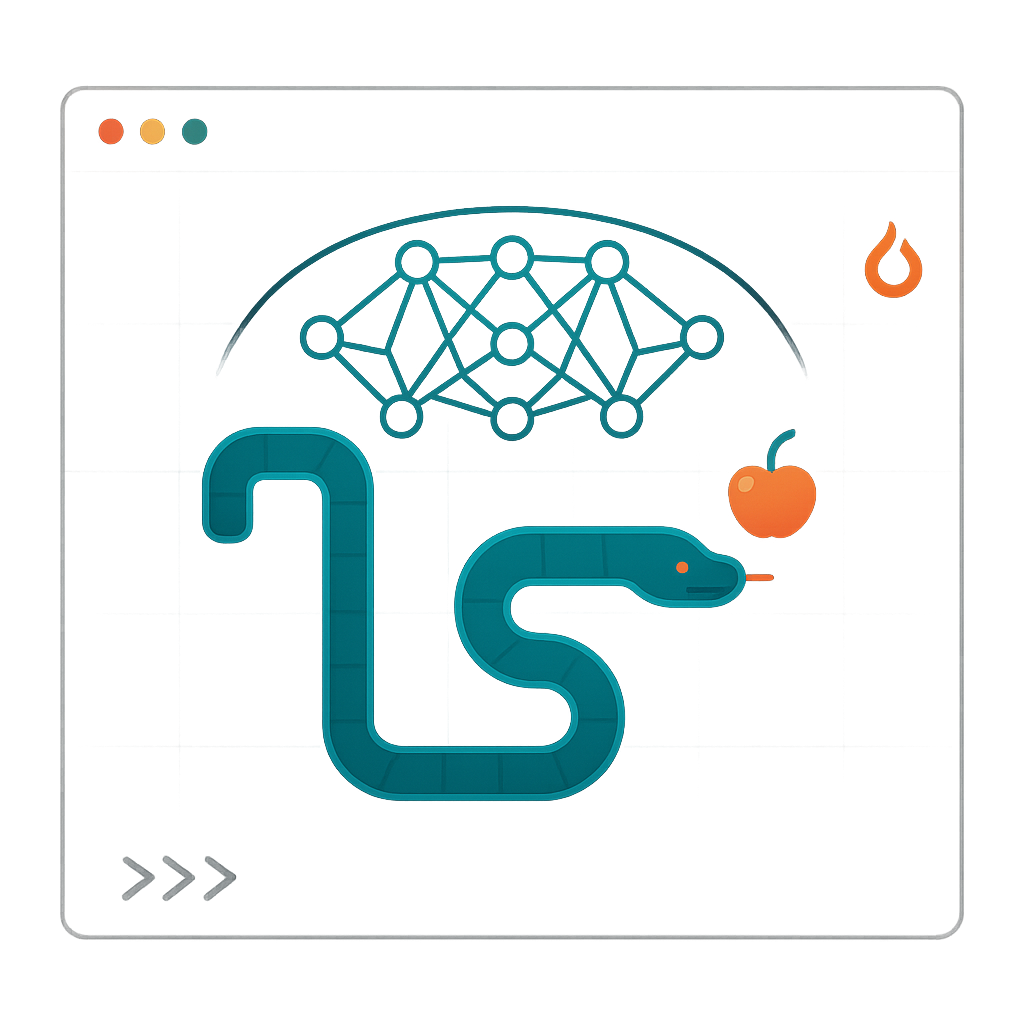
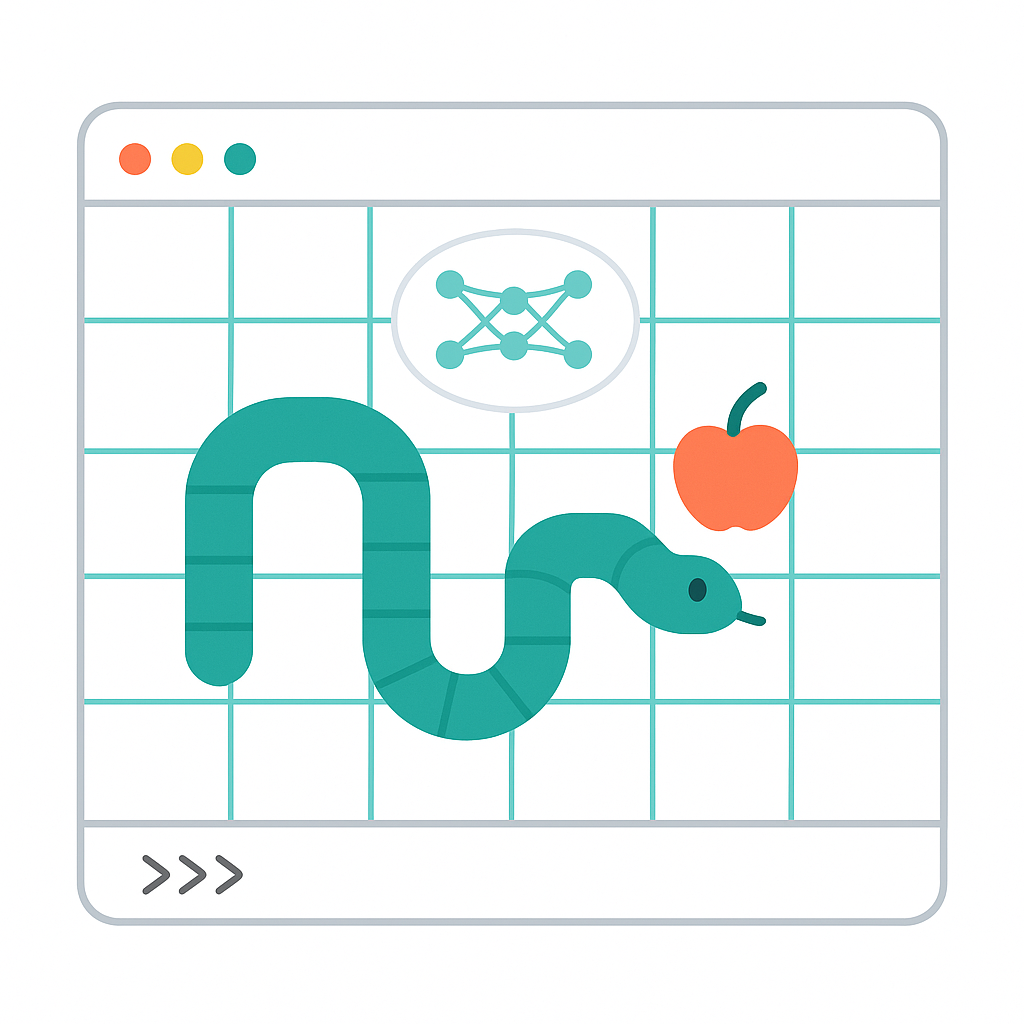
Added images for the Automated Snake Game and BloomMap projects

Changed region(s): [[0.0312, 0.0625, 0.9688, 0.9375]]

diff --git a/src/components/ProjectsData.js b/src/components/ProjectsData.js
@@ -51,7 +51,7 @@ export const allProjects = [
     tags: ['React', 'Flask', 'GeoPandas', 'Docker'],
     github: '#',
     demo: '#',
-    thumbnail: '/images/placeholder.jpg',
+    thumbnail: '/images/bloommap2.png',
   },
   {
     title: 'CodeCrafter',
